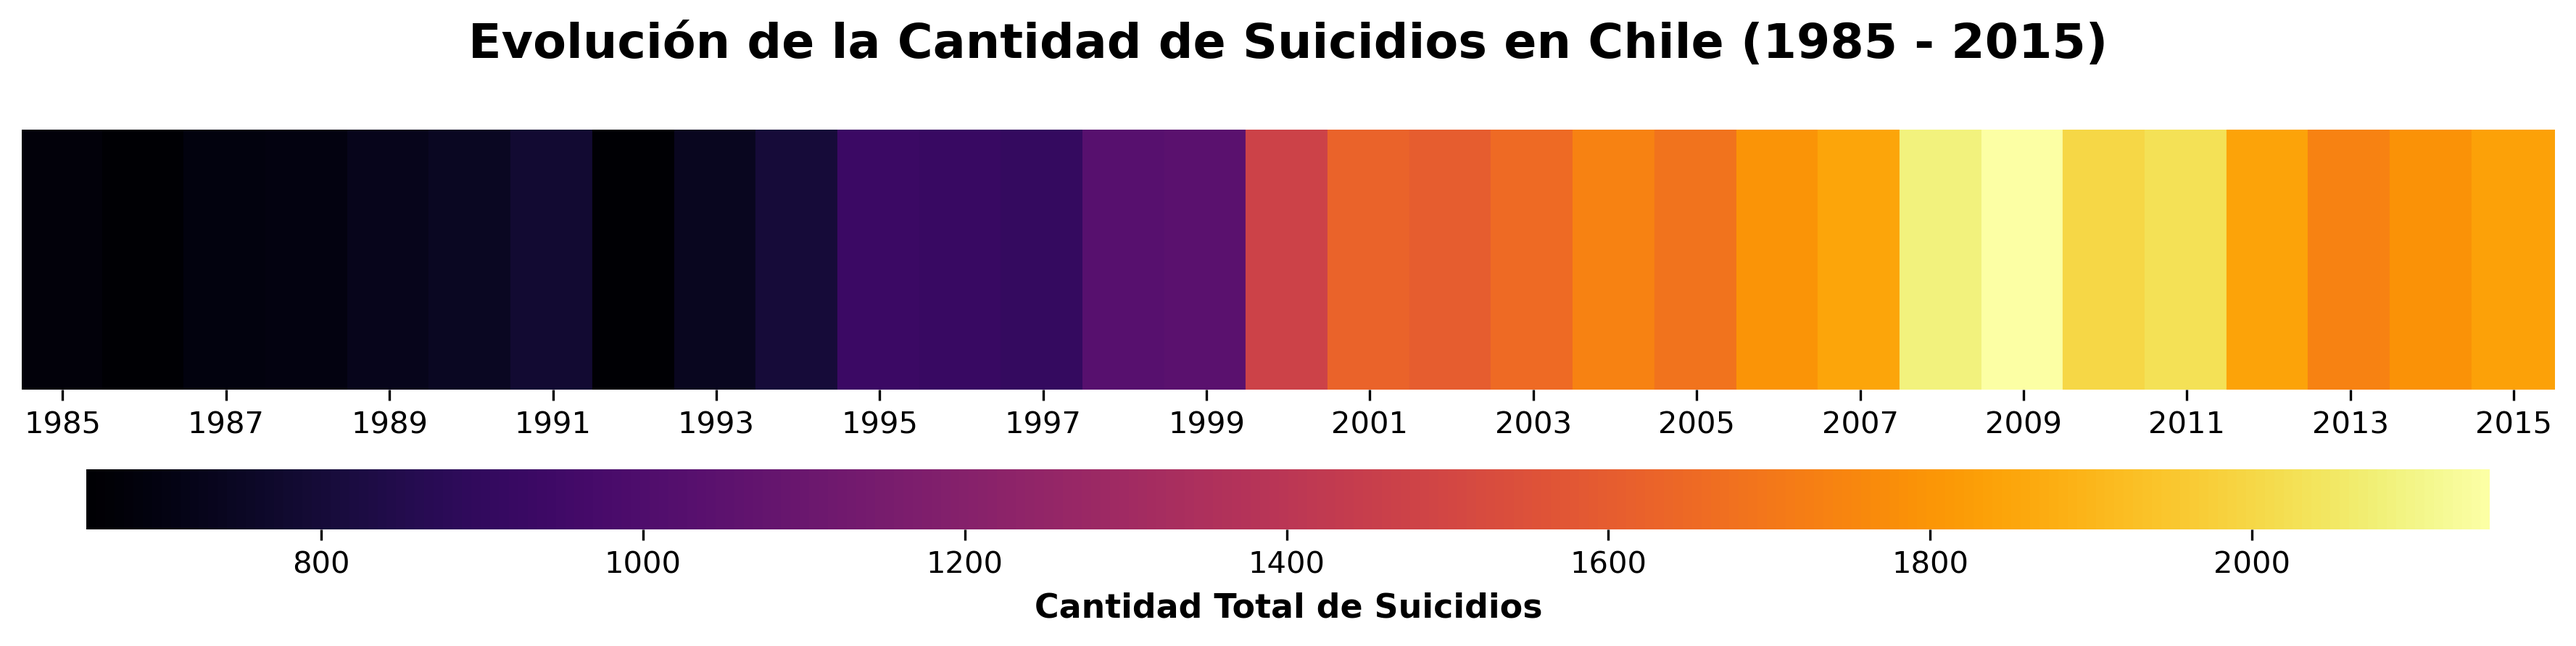
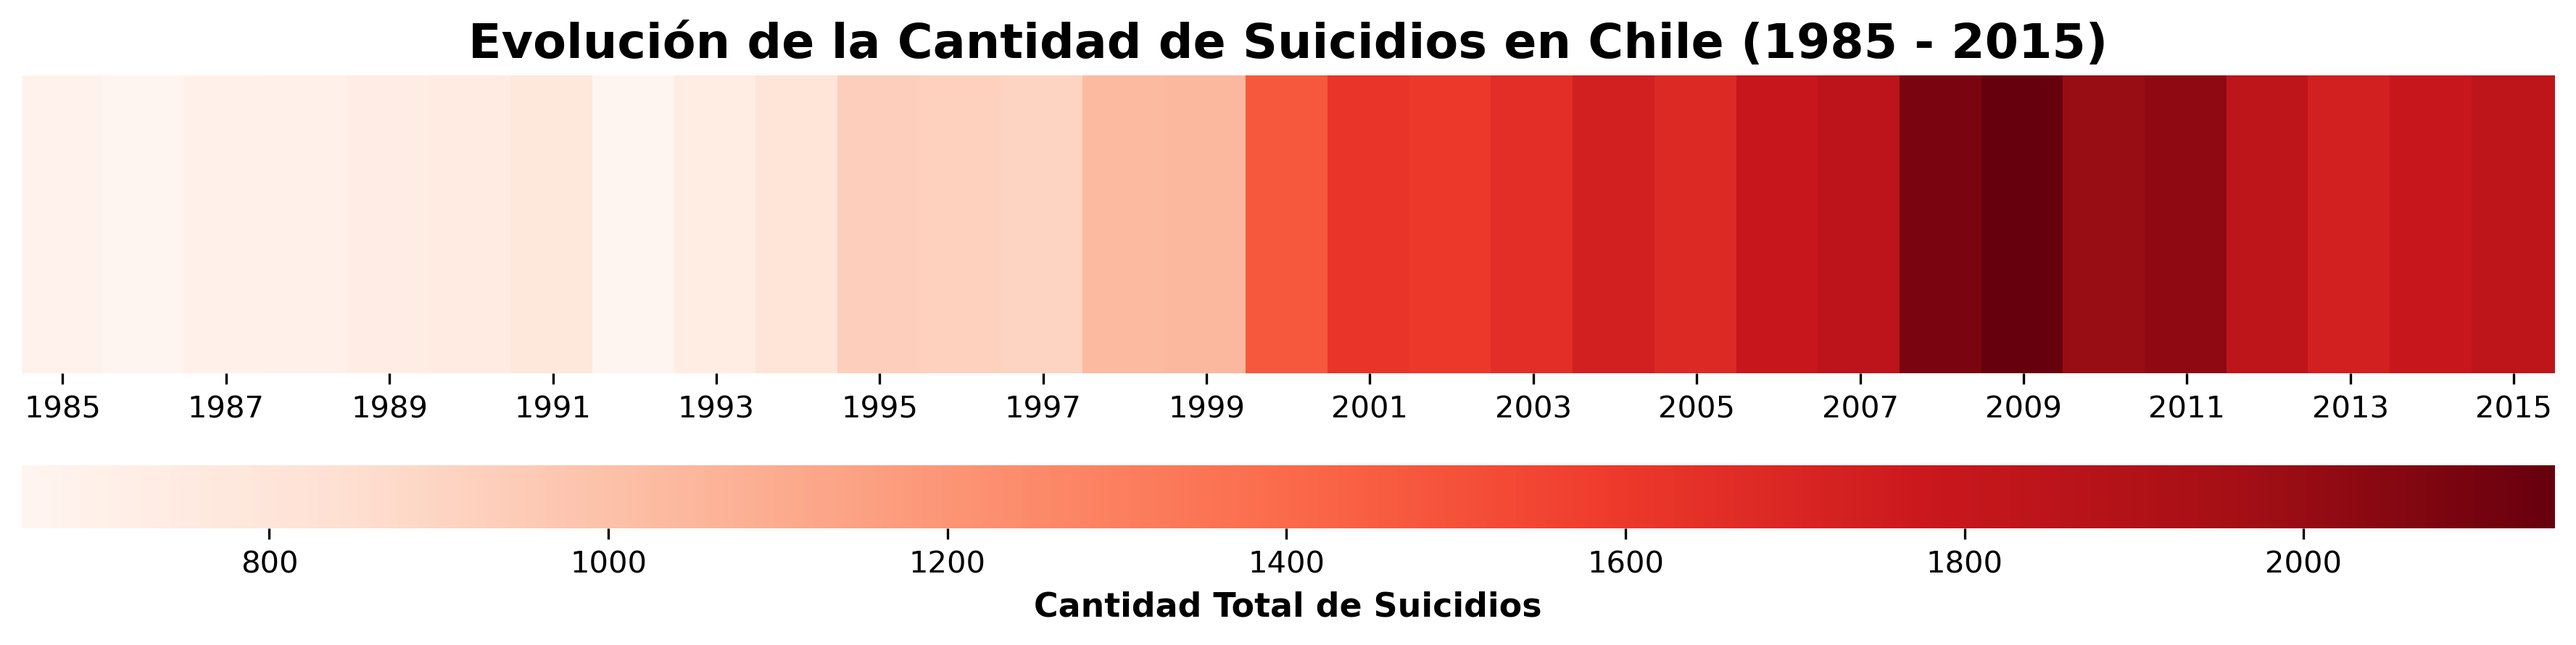
fix: colores

diff --git a/Code/Alexis-Mellis/barcode.py b/Code/Alexis-Mellis/barcode.py
@@ -12,7 +12,7 @@ years = df_year_filter["year"].values
 suicides_no = df_year_filter["suicides_no"].values
 
 fig, ax = plt.subplots(figsize=(12, 3))
-cmap = plt.cm.inferno 
+cmap = plt.cm.Reds
 norm = Normalize(vmin=suicides_no.min(), vmax=suicides_no.max())
 
 for i in range(len(years)):
